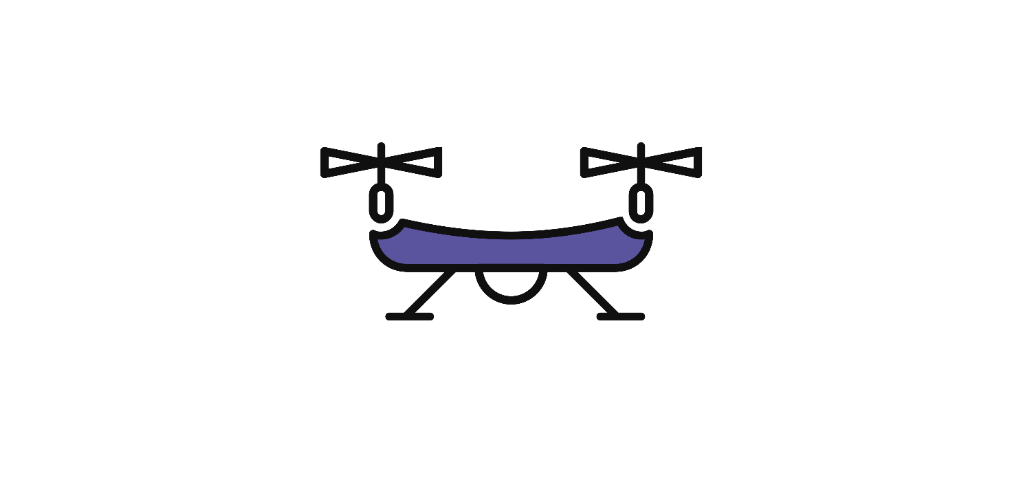
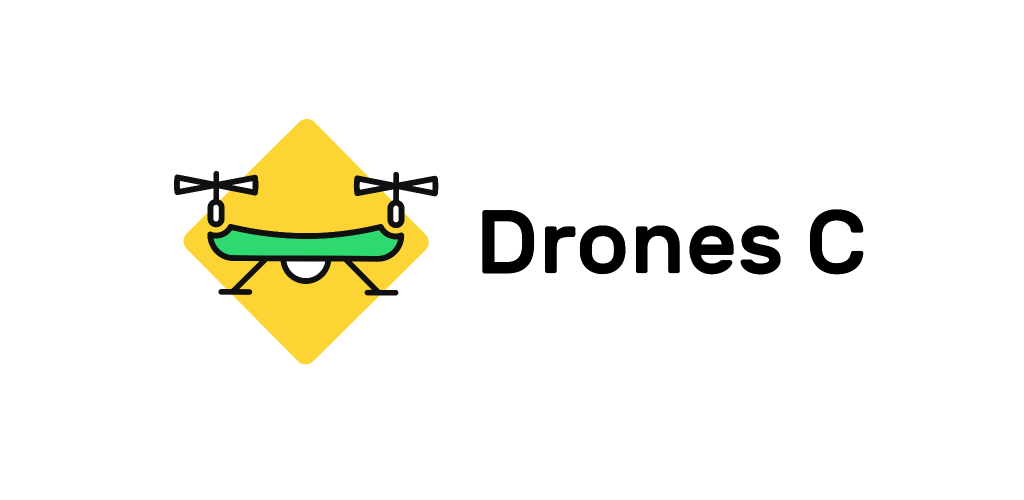
change theme

Changed region(s): [[0.1562, 0.24, 0.8438, 0.75]]

diff --git a/css/styles.min.css b/css/styles.min.css
@@ -1,7 +1,7 @@
 @import url('https://fonts.googleapis.com/css2?family=Rubik&display=swap');
 
 .text-main {
-	color: #821CF8 !important;
+	color: #FCD532 !important;
 }
 
 .logo {
@@ -25,12 +25,16 @@ h1 {
 }
 
 .btn-outline-danger {
-    color: #821CF8;
-    border-color: #821CF8 !important;
+    color: #FCD532;
+    border-color: #FCD532 !important;
 }
 
 .btn-outline-danger:hover {
     color: #fff;
-    background-color: #821CF8 !important;
-    border-color: #821CF8 !important;
+    background-color: #FCD532 !important;
+    border-color: #FCD532 !important;
+}
+
+.card {
+	background-color: #131313 !important;
 }

diff --git a/php/configs/consts.php b/php/configs/consts.php
@@ -4,8 +4,8 @@ $_DOMAIN = "https://".$DOMAIN;
 $SITE_TITLE = 'DronesC';
 $DESCRIPTION = $__translations['d0'];
 $KEYWORDS = 'NVG, Drones, Drones Control, DronesC, Construction, Order, Service, services, flights, modules, analysis, landing';
-$SN_BANNER = "images/sn_share.png?0";
-$MAIN_COLOR = "#131313";
-$CACHE = "4";
+$SN_BANNER = "images/sn_share.png?1";
+$MAIN_COLOR = "#FCD532";
+$CACHE = "6";
 
 ?>
